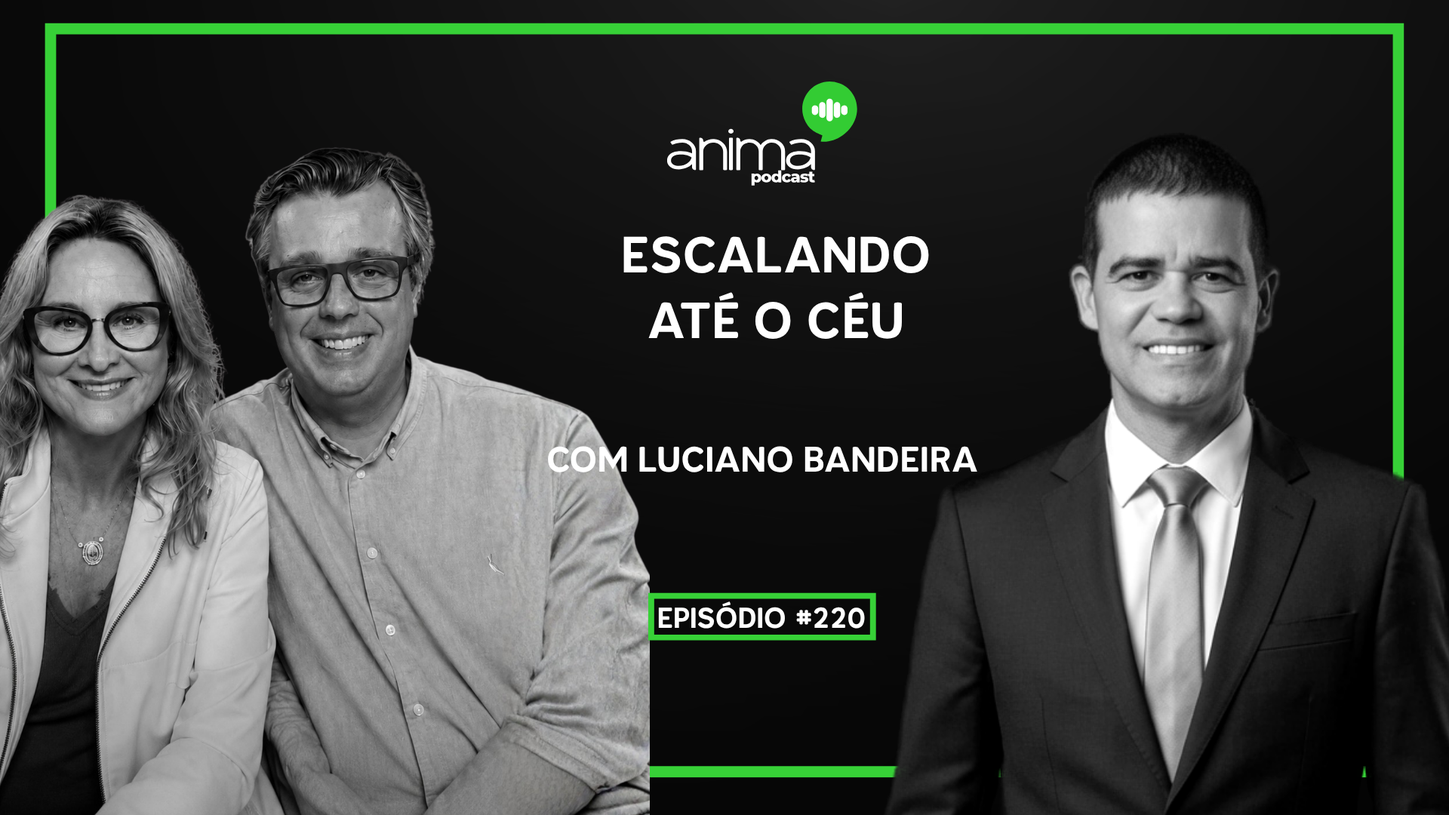
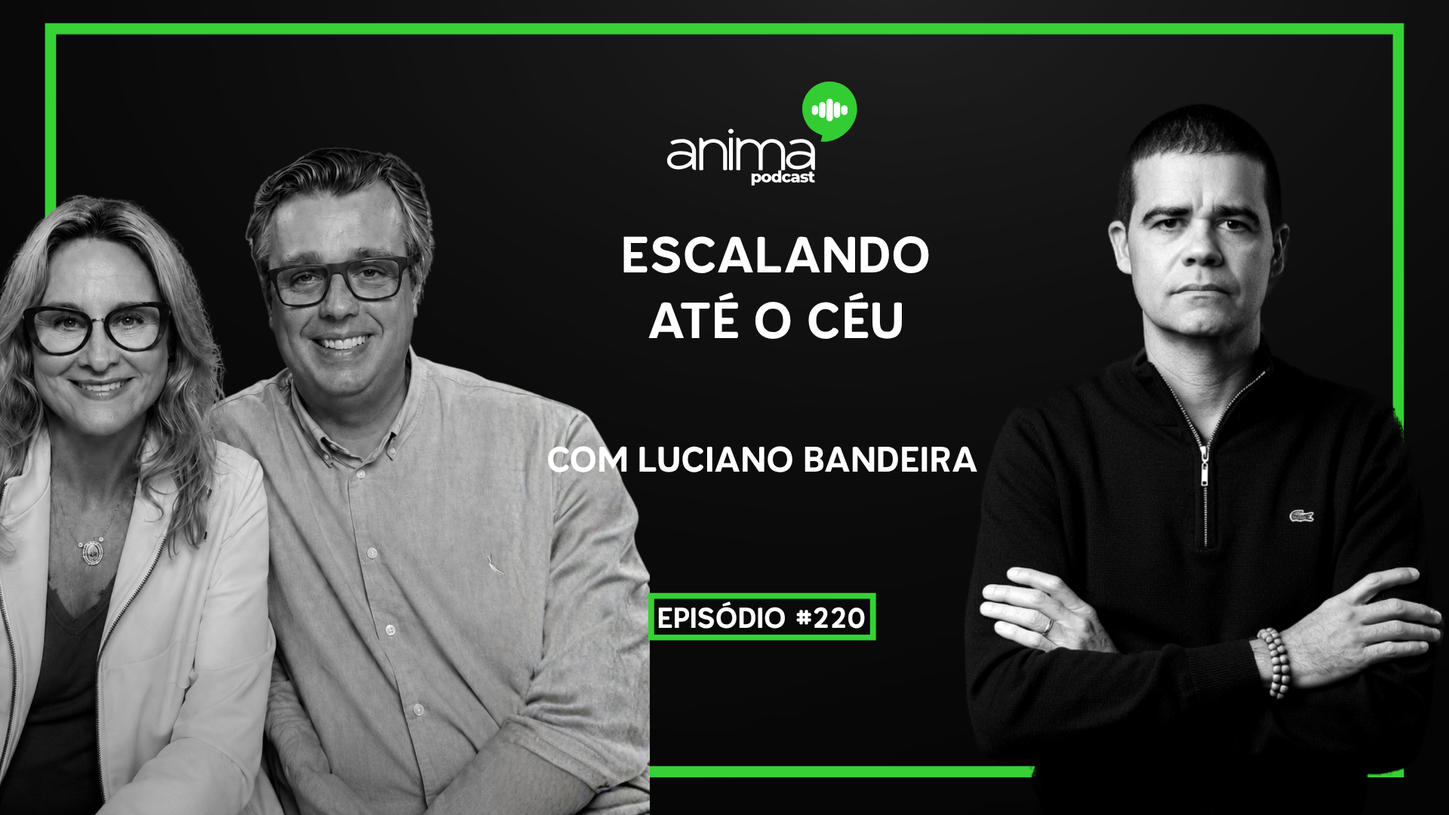
Casal trocado no acervo completo (295 episodios) + galeria

Changed region(s): [[0.5938, 0.1528, 1.0, 1.0], [0.9375, 0.9472, 0.9688, 0.9778]]

diff --git a/review/casal-lote/index.html b/review/casal-lote/index.html
@@ -1,71 +1,312 @@
-<title>Anima - Casal novo (lote Template 2)</title>
+<title>Anima Podcast — Casal novo (acervo completo)</title>
 <style>
 :root{--bg:#0c0e0d;--card:#161a18;--cb:#232a26;--ink:#f3f6f4;--muted:#9aa49e;--acc:#37d137}
 body{margin:0;background:var(--bg);color:var(--ink);font-family:"Segoe UI",system-ui,Arial,sans-serif}
-header{padding:26px 24px;border-bottom:1px solid var(--cb)}
+header{padding:26px 24px;border-bottom:1px solid var(--cb);position:sticky;top:0;background:var(--bg);z-index:2}
 header h1{margin:0 0 6px;font-size:22px}
-header p{margin:0;color:var(--muted);font-size:14px;max-width:80ch}
-main{display:grid;gap:18px;grid-template-columns:repeat(auto-fill,minmax(340px,1fr));padding:24px}
+header p{margin:0;color:var(--muted);font-size:14px;max-width:90ch}
+header b{color:var(--acc)}
+main{display:grid;gap:14px;grid-template-columns:repeat(auto-fill,minmax(300px,1fr));padding:22px}
 figure{margin:0;background:var(--card);border:1px solid var(--cb);border-radius:12px;overflow:hidden}
 figure img{width:100%;display:block;aspect-ratio:16/9;object-fit:cover;background:#000}
-figcaption{padding:10px 12px;font-size:13px;line-height:1.5}
-.t{color:var(--ink);font-weight:600}.g{color:var(--muted);font-size:12px}
-.b{display:inline-block;font-size:10.5px;padding:1px 7px;border-radius:999px;vertical-align:middle;margin-left:4px}
-.b-ok{background:rgba(55,209,55,.15);color:#5ee65e;border:1px solid rgba(55,209,55,.35)}
-.b-skip{background:#20262300;color:var(--muted);border:1px solid var(--cb)}
-.b-info{background:rgba(0,166,230,.12);color:#4bb8ee;border:1px solid rgba(0,166,230,.3)}
+figcaption{padding:8px 12px;font-size:13px;font-weight:600;color:var(--ink)}
 </style>
-<header><h1>Casal novo - lote "Template 2" (25 episodios)</h1>
-<p>Copia de trabalho <b>DAHT4wC4lb4</b> (o design original DAHRFk8zA-8 foi preservado como backup). 23 episodios com o casal de apresentadores: casal NA FRENTE da tarja verde (sangrando a esquerda) e ATRAS do texto (titulo, subtitulo e numero do episodio sempre legiveis). #279 ja tinha a foto unica; #260 (Diogo e Vanessa) sao os proprios apresentadores. Confira e aprove.</p></header>
+<header><h1>Casal de apresentadores trocado — acervo completo</h1>
+<p><b>295 episódios</b> com o novo casal de apresentadores (na frente da tarja verde, atrás do texto). Cobre praticamente todo o catálogo do Anima Podcast. Os designs originais no Canva foram todos preservados; as edições foram feitas em cópias. A sub-marca "Anima Saúde" não tem o casal e ficou de fora. Ordenado do episódio mais recente ao mais antigo.</p></header>
 <main>
-<figure><img loading="lazy" src="e279.png?v=4" alt="#279">
-<figcaption><b>#279</b> <span class="b b-info">ja era single (#279)</span><br><span class="t">Os bastidores do filme de Guido Schaffer</span><br><span class="g">com Jayme Monjardim e Suzana Castelo</span></figcaption></figure>
-<figure><img loading="lazy" src="e268.png?v=4" alt="#268">
-<figcaption><b>#268</b> <span class="b b-ok">casal adicionado</span><br><span class="t">Anima e Santo Flow juntos pela 1a vez</span><br><span class="g">com Guto Azevedo e Zulene Parente</span></figcaption></figure>
-<figure><img loading="lazy" src="e260.png?v=4" alt="#260">
-<figcaption><b>#260</b> <span class="b b-skip">sem casal</span><br><span class="t">O que esperar de 2026</span><br><span class="g">com Diogo e Vanessa</span></figcaption></figure>
-<figure><img loading="lazy" src="e234.png?v=4" alt="#234">
-<figcaption><b>#234</b> <span class="b b-ok">casal adicionado</span><br><span class="t">Nao pecar contra a castidade</span><br><span class="g">com Jose Roberto e Maria Carolina</span></figcaption></figure>
-<figure><img loading="lazy" src="e233.png?v=4" alt="#233">
-<figcaption><b>#233</b> <span class="b b-ok">casal trocado</span><br><span class="t">Quando o casamento comeca a morrer</span><br><span class="g">com Yasmin Fleming</span></figcaption></figure>
-<figure><img loading="lazy" src="e232.png?v=4" alt="#232">
-<figcaption><b>#232</b> <span class="b b-ok">casal trocado</span><br><span class="t">A boa musica e remedio para a alma</span><br><span class="g">com Alex Cohen</span></figcaption></figure>
-<figure><img loading="lazy" src="e231.png?v=4" alt="#231">
-<figcaption><b>#231</b> <span class="b b-ok">casal trocado</span><br><span class="t">O quadro que adoecia as pessoas</span><br><span class="g">com Paulo Frade</span></figcaption></figure>
-<figure><img loading="lazy" src="e230.png?v=4" alt="#230">
-<figcaption><b>#230</b> <span class="b b-ok">casal trocado</span><br><span class="t">Se eu estivesse no Ira, estaria morta</span><br><span class="g">com Mahsima Nadim</span></figcaption></figure>
-<figure><img loading="lazy" src="e229.png?v=4" alt="#229">
-<figcaption><b>#229</b> <span class="b b-ok">casal trocado</span><br><span class="t">A verdade sobre o Sudario</span><br><span class="g">com Vera Tostes</span></figcaption></figure>
-<figure><img loading="lazy" src="e228.png?v=4" alt="#228">
-<figcaption><b>#228</b> <span class="b b-ok">casal trocado</span><br><span class="t">Eu estava nas garras de Satanas</span><br><span class="g">com Tony Allysson</span></figcaption></figure>
-<figure><img loading="lazy" src="e227.png?v=4" alt="#227">
-<figcaption><b>#227</b> <span class="b b-ok">casal trocado</span><br><span class="t">Cai protestante, levantei catolico</span><br><span class="g">com Frei Angelo Faitanin</span></figcaption></figure>
-<figure><img loading="lazy" src="e226.png?v=4" alt="#226">
-<figcaption><b>#226</b> <span class="b b-ok">casal trocado</span><br><span class="t">Fui ateu e comunista</span><br><span class="g">com Gabriel Kanner</span></figcaption></figure>
-<figure><img loading="lazy" src="e225.png?v=4" alt="#225">
-<figcaption><b>#225</b> <span class="b b-ok">casal trocado</span><br><span class="t">Nao entre no digital sem isso</span><br><span class="g">com Italo Marsili</span></figcaption></figure>
-<figure><img loading="lazy" src="e224.png?v=4" alt="#224">
-<figcaption><b>#224</b> <span class="b b-ok">casal trocado</span><br><span class="t">Seu casamento pode ser nulo?</span><br><span class="g">com Pe. Alex Nogueira</span></figcaption></figure>
-<figure><img loading="lazy" src="e223.png?v=4" alt="#223">
-<figcaption><b>#223</b> <span class="b b-ok">casal trocado</span><br><span class="t">Va mais rapido para o Ceu</span><br><span class="g">com Pe. Renato Teixeira</span></figcaption></figure>
-<figure><img loading="lazy" src="e222.png?v=4" alt="#222">
-<figcaption><b>#222</b> <span class="b b-ok">casal trocado</span><br><span class="t">O Rock e satanico?</span><br><span class="g">com Danilo Lopes</span></figcaption></figure>
-<figure><img loading="lazy" src="e220.png?v=4" alt="#220">
-<figcaption><b>#220</b> <span class="b b-ok">casal trocado</span><br><span class="t">Escalando ate o Ceu</span><br><span class="g">com Luciano Bandeira</span></figcaption></figure>
-<figure><img loading="lazy" src="e219.png?v=4" alt="#219">
-<figcaption><b>#219</b> <span class="b b-ok">casal trocado</span><br><span class="t">A arma contra a gula</span><br><span class="g">com Isa Latuf</span></figcaption></figure>
-<figure><img loading="lazy" src="e218.png?v=4" alt="#218">
-<figcaption><b>#218</b> <span class="b b-ok">casal trocado</span><br><span class="t">Como superar a dor e o sofrimento</span><br><span class="g">com Luis Enrique Carmelo</span></figcaption></figure>
-<figure><img loading="lazy" src="e217.png?v=4" alt="#217">
-<figcaption><b>#217</b> <span class="b b-ok">casal trocado</span><br><span class="t">A Santa Carona</span><br><span class="g">com Guilherme Cadoiss</span></figcaption></figure>
-<figure><img loading="lazy" src="e216.png?v=4" alt="#216">
-<figcaption><b>#216</b> <span class="b b-ok">casal trocado</span><br><span class="t">Encontrei Deus no fundo do poco</span><br><span class="g">com Alam Carrion</span></figcaption></figure>
-<figure><img loading="lazy" src="e214.png?v=4" alt="#214">
-<figcaption><b>#214</b> <span class="b b-ok">casal trocado</span><br><span class="t">Os 4 desejos ocultos das mulheres</span><br><span class="g">com Mari Vabo</span></figcaption></figure>
-<figure><img loading="lazy" src="e213.png?v=4" alt="#213">
-<figcaption><b>#213</b> <span class="b b-ok">casal trocado</span><br><span class="t">Padre Paulo Ricardo e herege?</span><br><span class="g">com Pedro Affonseca</span></figcaption></figure>
-<figure><img loading="lazy" src="e211.png?v=4" alt="#211">
-<figcaption><b>#211</b> <span class="b b-ok">casal trocado</span><br><span class="t">A verdade sombria sobre o funk</span><br><span class="g">com Alvaro Siviero</span></figcaption></figure>
-<figure><img loading="lazy" src="e210.png?v=4" alt="#210">
-<figcaption><b>#210</b> <span class="b b-ok">casal trocado</span><br><span class="t">Musica catolica furando a bolha</span><br><span class="g">com Herrison Pontes e Jessica Dias</span></figcaption></figure>
+<figure><img loading="lazy" src="e307.png?v=5" alt="#307"><figcaption>#307</figcaption></figure>
+<figure><img loading="lazy" src="e306.png?v=5" alt="#306"><figcaption>#306</figcaption></figure>
+<figure><img loading="lazy" src="e305.png?v=5" alt="#305"><figcaption>#305</figcaption></figure>
+<figure><img loading="lazy" src="e304.png?v=5" alt="#304"><figcaption>#304</figcaption></figure>
+<figure><img loading="lazy" src="e303.png?v=5" alt="#303"><figcaption>#303</figcaption></figure>
+<figure><img loading="lazy" src="e302.png?v=5" alt="#302"><figcaption>#302</figcaption></figure>
+<figure><img loading="lazy" src="e301.png?v=5" alt="#301"><figcaption>#301</figcaption></figure>
+<figure><img loading="lazy" src="e300.png?v=5" alt="#300"><figcaption>#300</figcaption></figure>
+<figure><img loading="lazy" src="e299.png?v=5" alt="#299"><figcaption>#299</figcaption></figure>
+<figure><img loading="lazy" src="e298.png?v=5" alt="#298"><figcaption>#298</figcaption></figure>
+<figure><img loading="lazy" src="e297.png?v=5" alt="#297"><figcaption>#297</figcaption></figure>
+<figure><img loading="lazy" src="e296.png?v=5" alt="#296"><figcaption>#296</figcaption></figure>
+<figure><img loading="lazy" src="e295.png?v=5" alt="#295"><figcaption>#295</figcaption></figure>
+<figure><img loading="lazy" src="e294.png?v=5" alt="#294"><figcaption>#294</figcaption></figure>
+<figure><img loading="lazy" src="e293.png?v=5" alt="#293"><figcaption>#293</figcaption></figure>
+<figure><img loading="lazy" src="e292.png?v=5" alt="#292"><figcaption>#292</figcaption></figure>
+<figure><img loading="lazy" src="e290.png?v=5" alt="#290"><figcaption>#290</figcaption></figure>
+<figure><img loading="lazy" src="e289.png?v=5" alt="#289"><figcaption>#289</figcaption></figure>
+<figure><img loading="lazy" src="e288.png?v=5" alt="#288"><figcaption>#288</figcaption></figure>
+<figure><img loading="lazy" src="e287.png?v=5" alt="#287"><figcaption>#287</figcaption></figure>
+<figure><img loading="lazy" src="e286.png?v=5" alt="#286"><figcaption>#286</figcaption></figure>
+<figure><img loading="lazy" src="e284.png?v=5" alt="#284"><figcaption>#284</figcaption></figure>
+<figure><img loading="lazy" src="e283.png?v=5" alt="#283"><figcaption>#283</figcaption></figure>
+<figure><img loading="lazy" src="e282.png?v=5" alt="#282"><figcaption>#282</figcaption></figure>
+<figure><img loading="lazy" src="e281.png?v=5" alt="#281"><figcaption>#281</figcaption></figure>
+<figure><img loading="lazy" src="e280.png?v=5" alt="#280"><figcaption>#280</figcaption></figure>
+<figure><img loading="lazy" src="e279.png?v=5" alt="#279"><figcaption>#279</figcaption></figure>
+<figure><img loading="lazy" src="e277.png?v=5" alt="#277"><figcaption>#277</figcaption></figure>
+<figure><img loading="lazy" src="e275.png?v=5" alt="#275"><figcaption>#275</figcaption></figure>
+<figure><img loading="lazy" src="e274.png?v=5" alt="#274"><figcaption>#274</figcaption></figure>
+<figure><img loading="lazy" src="e273.png?v=5" alt="#273"><figcaption>#273</figcaption></figure>
+<figure><img loading="lazy" src="e272.png?v=5" alt="#272"><figcaption>#272</figcaption></figure>
+<figure><img loading="lazy" src="e271.png?v=5" alt="#271"><figcaption>#271</figcaption></figure>
+<figure><img loading="lazy" src="e270.png?v=5" alt="#270"><figcaption>#270</figcaption></figure>
+<figure><img loading="lazy" src="e269.png?v=5" alt="#269"><figcaption>#269</figcaption></figure>
+<figure><img loading="lazy" src="e268.png?v=5" alt="#268"><figcaption>#268</figcaption></figure>
+<figure><img loading="lazy" src="e267.png?v=5" alt="#267"><figcaption>#267</figcaption></figure>
+<figure><img loading="lazy" src="e266.png?v=5" alt="#266"><figcaption>#266</figcaption></figure>
+<figure><img loading="lazy" src="e265.png?v=5" alt="#265"><figcaption>#265</figcaption></figure>
+<figure><img loading="lazy" src="e264.png?v=5" alt="#264"><figcaption>#264</figcaption></figure>
+<figure><img loading="lazy" src="e263.png?v=5" alt="#263"><figcaption>#263</figcaption></figure>
+<figure><img loading="lazy" src="e262.png?v=5" alt="#262"><figcaption>#262</figcaption></figure>
+<figure><img loading="lazy" src="e261.png?v=5" alt="#261"><figcaption>#261</figcaption></figure>
+<figure><img loading="lazy" src="e260.png?v=5" alt="#260"><figcaption>#260</figcaption></figure>
+<figure><img loading="lazy" src="e259.png?v=5" alt="#259"><figcaption>#259</figcaption></figure>
+<figure><img loading="lazy" src="e258.png?v=5" alt="#258"><figcaption>#258</figcaption></figure>
+<figure><img loading="lazy" src="e257.png?v=5" alt="#257"><figcaption>#257</figcaption></figure>
+<figure><img loading="lazy" src="e256.png?v=5" alt="#256"><figcaption>#256</figcaption></figure>
+<figure><img loading="lazy" src="e255.png?v=5" alt="#255"><figcaption>#255</figcaption></figure>
+<figure><img loading="lazy" src="e254.png?v=5" alt="#254"><figcaption>#254</figcaption></figure>
+<figure><img loading="lazy" src="e253.png?v=5" alt="#253"><figcaption>#253</figcaption></figure>
+<figure><img loading="lazy" src="e252.png?v=5" alt="#252"><figcaption>#252</figcaption></figure>
+<figure><img loading="lazy" src="e251.png?v=5" alt="#251"><figcaption>#251</figcaption></figure>
+<figure><img loading="lazy" src="e250.png?v=5" alt="#250"><figcaption>#250</figcaption></figure>
+<figure><img loading="lazy" src="e249.png?v=5" alt="#249"><figcaption>#249</figcaption></figure>
+<figure><img loading="lazy" src="e248.png?v=5" alt="#248"><figcaption>#248</figcaption></figure>
+<figure><img loading="lazy" src="e247.png?v=5" alt="#247"><figcaption>#247</figcaption></figure>
+<figure><img loading="lazy" src="e246.png?v=5" alt="#246"><figcaption>#246</figcaption></figure>
+<figure><img loading="lazy" src="e245.png?v=5" alt="#245"><figcaption>#245</figcaption></figure>
+<figure><img loading="lazy" src="e244.png?v=5" alt="#244"><figcaption>#244</figcaption></figure>
+<figure><img loading="lazy" src="e243.png?v=5" alt="#243"><figcaption>#243</figcaption></figure>
+<figure><img loading="lazy" src="e242.png?v=5" alt="#242"><figcaption>#242</figcaption></figure>
+<figure><img loading="lazy" src="e241.png?v=5" alt="#241"><figcaption>#241</figcaption></figure>
+<figure><img loading="lazy" src="e240.png?v=5" alt="#240"><figcaption>#240</figcaption></figure>
+<figure><img loading="lazy" src="e239.png?v=5" alt="#239"><figcaption>#239</figcaption></figure>
+<figure><img loading="lazy" src="e238.png?v=5" alt="#238"><figcaption>#238</figcaption></figure>
+<figure><img loading="lazy" src="e237.png?v=5" alt="#237"><figcaption>#237</figcaption></figure>
+<figure><img loading="lazy" src="e236.png?v=5" alt="#236"><figcaption>#236</figcaption></figure>
+<figure><img loading="lazy" src="e235.png?v=5" alt="#235"><figcaption>#235</figcaption></figure>
+<figure><img loading="lazy" src="e234.png?v=5" alt="#234"><figcaption>#234</figcaption></figure>
+<figure><img loading="lazy" src="e233.png?v=5" alt="#233"><figcaption>#233</figcaption></figure>
+<figure><img loading="lazy" src="e232.png?v=5" alt="#232"><figcaption>#232</figcaption></figure>
+<figure><img loading="lazy" src="e231.png?v=5" alt="#231"><figcaption>#231</figcaption></figure>
+<figure><img loading="lazy" src="e230.png?v=5" alt="#230"><figcaption>#230</figcaption></figure>
+<figure><img loading="lazy" src="e229.png?v=5" alt="#229"><figcaption>#229</figcaption></figure>
+<figure><img loading="lazy" src="e228.png?v=5" alt="#228"><figcaption>#228</figcaption></figure>
+<figure><img loading="lazy" src="e227.png?v=5" alt="#227"><figcaption>#227</figcaption></figure>
+<figure><img loading="lazy" src="e226.png?v=5" alt="#226"><figcaption>#226</figcaption></figure>
+<figure><img loading="lazy" src="e225.png?v=5" alt="#225"><figcaption>#225</figcaption></figure>
+<figure><img loading="lazy" src="e224.png?v=5" alt="#224"><figcaption>#224</figcaption></figure>
+<figure><img loading="lazy" src="e223.png?v=5" alt="#223"><figcaption>#223</figcaption></figure>
+<figure><img loading="lazy" src="e222.png?v=5" alt="#222"><figcaption>#222</figcaption></figure>
+<figure><img loading="lazy" src="e221.png?v=5" alt="#221"><figcaption>#221</figcaption></figure>
+<figure><img loading="lazy" src="e220.png?v=5" alt="#220"><figcaption>#220</figcaption></figure>
+<figure><img loading="lazy" src="e219.png?v=5" alt="#219"><figcaption>#219</figcaption></figure>
+<figure><img loading="lazy" src="e218.png?v=5" alt="#218"><figcaption>#218</figcaption></figure>
+<figure><img loading="lazy" src="e217.png?v=5" alt="#217"><figcaption>#217</figcaption></figure>
+<figure><img loading="lazy" src="e216.png?v=5" alt="#216"><figcaption>#216</figcaption></figure>
+<figure><img loading="lazy" src="e215.png?v=5" alt="#215"><figcaption>#215</figcaption></figure>
+<figure><img loading="lazy" src="e214.png?v=5" alt="#214"><figcaption>#214</figcaption></figure>
+<figure><img loading="lazy" src="e213.png?v=5" alt="#213"><figcaption>#213</figcaption></figure>
+<figure><img loading="lazy" src="e212.png?v=5" alt="#212"><figcaption>#212</figcaption></figure>
+<figure><img loading="lazy" src="e211.png?v=5" alt="#211"><figcaption>#211</figcaption></figure>
+<figure><img loading="lazy" src="e210.png?v=5" alt="#210"><figcaption>#210</figcaption></figure>
+<figure><img loading="lazy" src="e209.png?v=5" alt="#209"><figcaption>#209</figcaption></figure>
+<figure><img loading="lazy" src="e208.png?v=5" alt="#208"><figcaption>#208</figcaption></figure>
+<figure><img loading="lazy" src="e207.png?v=5" alt="#207"><figcaption>#207</figcaption></figure>
+<figure><img loading="lazy" src="e206.png?v=5" alt="#206"><figcaption>#206</figcaption></figure>
+<figure><img loading="lazy" src="e205.png?v=5" alt="#205"><figcaption>#205</figcaption></figure>
+<figure><img loading="lazy" src="e203.png?v=5" alt="#203"><figcaption>#203</figcaption></figure>
+<figure><img loading="lazy" src="e202.png?v=5" alt="#202"><figcaption>#202</figcaption></figure>
+<figure><img loading="lazy" src="e201.png?v=5" alt="#201"><figcaption>#201</figcaption></figure>
+<figure><img loading="lazy" src="e200.png?v=5" alt="#200"><figcaption>#200</figcaption></figure>
+<figure><img loading="lazy" src="e199.png?v=5" alt="#199"><figcaption>#199</figcaption></figure>
+<figure><img loading="lazy" src="e198.png?v=5" alt="#198"><figcaption>#198</figcaption></figure>
+<figure><img loading="lazy" src="e197.png?v=5" alt="#197"><figcaption>#197</figcaption></figure>
+<figure><img loading="lazy" src="e196.png?v=5" alt="#196"><figcaption>#196</figcaption></figure>
+<figure><img loading="lazy" src="e195.png?v=5" alt="#195"><figcaption>#195</figcaption></figure>
+<figure><img loading="lazy" src="e194.png?v=5" alt="#194"><figcaption>#194</figcaption></figure>
+<figure><img loading="lazy" src="e193.png?v=5" alt="#193"><figcaption>#193</figcaption></figure>
+<figure><img loading="lazy" src="e192.png?v=5" alt="#192"><figcaption>#192</figcaption></figure>
+<figure><img loading="lazy" src="e191.png?v=5" alt="#191"><figcaption>#191</figcaption></figure>
+<figure><img loading="lazy" src="e190.png?v=5" alt="#190"><figcaption>#190</figcaption></figure>
+<figure><img loading="lazy" src="e189.png?v=5" alt="#189"><figcaption>#189</figcaption></figure>
+<figure><img loading="lazy" src="e187.png?v=5" alt="#187"><figcaption>#187</figcaption></figure>
+<figure><img loading="lazy" src="e186.png?v=5" alt="#186"><figcaption>#186</figcaption></figure>
+<figure><img loading="lazy" src="e185.png?v=5" alt="#185"><figcaption>#185</figcaption></figure>
+<figure><img loading="lazy" src="e184.png?v=5" alt="#184"><figcaption>#184</figcaption></figure>
+<figure><img loading="lazy" src="e183.png?v=5" alt="#183"><figcaption>#183</figcaption></figure>
+<figure><img loading="lazy" src="e181.png?v=5" alt="#181"><figcaption>#181</figcaption></figure>
+<figure><img loading="lazy" src="e180.png?v=5" alt="#180"><figcaption>#180</figcaption></figure>
+<figure><img loading="lazy" src="e179.png?v=5" alt="#179"><figcaption>#179</figcaption></figure>
+<figure><img loading="lazy" src="e178.png?v=5" alt="#178"><figcaption>#178</figcaption></figure>
+<figure><img loading="lazy" src="e177.png?v=5" alt="#177"><figcaption>#177</figcaption></figure>
+<figure><img loading="lazy" src="e176.png?v=5" alt="#176"><figcaption>#176</figcaption></figure>
+<figure><img loading="lazy" src="e175.png?v=5" alt="#175"><figcaption>#175</figcaption></figure>
+<figure><img loading="lazy" src="e173.png?v=5" alt="#173"><figcaption>#173</figcaption></figure>
+<figure><img loading="lazy" src="e172.png?v=5" alt="#172"><figcaption>#172</figcaption></figure>
+<figure><img loading="lazy" src="e171.png?v=5" alt="#171"><figcaption>#171</figcaption></figure>
+<figure><img loading="lazy" src="e170.png?v=5" alt="#170"><figcaption>#170</figcaption></figure>
+<figure><img loading="lazy" src="e169.png?v=5" alt="#169"><figcaption>#169</figcaption></figure>
+<figure><img loading="lazy" src="e168.png?v=5" alt="#168"><figcaption>#168</figcaption></figure>
+<figure><img loading="lazy" src="e167.png?v=5" alt="#167"><figcaption>#167</figcaption></figure>
+<figure><img loading="lazy" src="e166.png?v=5" alt="#166"><figcaption>#166</figcaption></figure>
+<figure><img loading="lazy" src="e165.png?v=5" alt="#165"><figcaption>#165</figcaption></figure>
+<figure><img loading="lazy" src="e164.png?v=5" alt="#164"><figcaption>#164</figcaption></figure>
+<figure><img loading="lazy" src="e163.png?v=5" alt="#163"><figcaption>#163</figcaption></figure>
+<figure><img loading="lazy" src="e162.png?v=5" alt="#162"><figcaption>#162</figcaption></figure>
+<figure><img loading="lazy" src="e161.png?v=5" alt="#161"><figcaption>#161</figcaption></figure>
+<figure><img loading="lazy" src="e160.png?v=5" alt="#160"><figcaption>#160</figcaption></figure>
+<figure><img loading="lazy" src="e159.png?v=5" alt="#159"><figcaption>#159</figcaption></figure>
+<figure><img loading="lazy" src="e158.png?v=5" alt="#158"><figcaption>#158</figcaption></figure>
+<figure><img loading="lazy" src="e157.png?v=5" alt="#157"><figcaption>#157</figcaption></figure>
+<figure><img loading="lazy" src="e156.png?v=5" alt="#156"><figcaption>#156</figcaption></figure>
+<figure><img loading="lazy" src="e155.png?v=5" alt="#155"><figcaption>#155</figcaption></figure>
+<figure><img loading="lazy" src="e154.png?v=5" alt="#154"><figcaption>#154</figcaption></figure>
+<figure><img loading="lazy" src="e153.png?v=5" alt="#153"><figcaption>#153</figcaption></figure>
+<figure><img loading="lazy" src="e152.png?v=5" alt="#152"><figcaption>#152</figcaption></figure>
+<figure><img loading="lazy" src="e151.png?v=5" alt="#151"><figcaption>#151</figcaption></figure>
+<figure><img loading="lazy" src="e150.png?v=5" alt="#150"><figcaption>#150</figcaption></figure>
+<figure><img loading="lazy" src="e149.png?v=5" alt="#149"><figcaption>#149</figcaption></figure>
+<figure><img loading="lazy" src="e148.png?v=5" alt="#148"><figcaption>#148</figcaption></figure>
+<figure><img loading="lazy" src="e147.png?v=5" alt="#147"><figcaption>#147</figcaption></figure>
+<figure><img loading="lazy" src="e146.png?v=5" alt="#146"><figcaption>#146</figcaption></figure>
+<figure><img loading="lazy" src="e145.png?v=5" alt="#145"><figcaption>#145</figcaption></figure>
+<figure><img loading="lazy" src="e144.png?v=5" alt="#144"><figcaption>#144</figcaption></figure>
+<figure><img loading="lazy" src="e143.png?v=5" alt="#143"><figcaption>#143</figcaption></figure>
+<figure><img loading="lazy" src="e142.png?v=5" alt="#142"><figcaption>#142</figcaption></figure>
+<figure><img loading="lazy" src="e141.png?v=5" alt="#141"><figcaption>#141</figcaption></figure>
+<figure><img loading="lazy" src="e140.png?v=5" alt="#140"><figcaption>#140</figcaption></figure>
+<figure><img loading="lazy" src="e139.png?v=5" alt="#139"><figcaption>#139</figcaption></figure>
+<figure><img loading="lazy" src="e138.png?v=5" alt="#138"><figcaption>#138</figcaption></figure>
+<figure><img loading="lazy" src="e137.png?v=5" alt="#137"><figcaption>#137</figcaption></figure>
+<figure><img loading="lazy" src="e136.png?v=5" alt="#136"><figcaption>#136</figcaption></figure>
+<figure><img loading="lazy" src="e135.png?v=5" alt="#135"><figcaption>#135</figcaption></figure>
+<figure><img loading="lazy" src="e134.png?v=5" alt="#134"><figcaption>#134</figcaption></figure>
+<figure><img loading="lazy" src="e133.png?v=5" alt="#133"><figcaption>#133</figcaption></figure>
+<figure><img loading="lazy" src="e132.png?v=5" alt="#132"><figcaption>#132</figcaption></figure>
+<figure><img loading="lazy" src="e131.png?v=5" alt="#131"><figcaption>#131</figcaption></figure>
+<figure><img loading="lazy" src="e130.png?v=5" alt="#130"><figcaption>#130</figcaption></figure>
+<figure><img loading="lazy" src="e129.png?v=5" alt="#129"><figcaption>#129</figcaption></figure>
+<figure><img loading="lazy" src="e128.png?v=5" alt="#128"><figcaption>#128</figcaption></figure>
+<figure><img loading="lazy" src="e127.png?v=5" alt="#127"><figcaption>#127</figcaption></figure>
+<figure><img loading="lazy" src="e126.png?v=5" alt="#126"><figcaption>#126</figcaption></figure>
+<figure><img loading="lazy" src="e125.png?v=5" alt="#125"><figcaption>#125</figcaption></figure>
+<figure><img loading="lazy" src="e124.png?v=5" alt="#124"><figcaption>#124</figcaption></figure>
+<figure><img loading="lazy" src="e122.png?v=5" alt="#122"><figcaption>#122</figcaption></figure>
+<figure><img loading="lazy" src="e120.png?v=5" alt="#120"><figcaption>#120</figcaption></figure>
+<figure><img loading="lazy" src="e119.png?v=5" alt="#119"><figcaption>#119</figcaption></figure>
+<figure><img loading="lazy" src="e118.png?v=5" alt="#118"><figcaption>#118</figcaption></figure>
+<figure><img loading="lazy" src="e117.png?v=5" alt="#117"><figcaption>#117</figcaption></figure>
+<figure><img loading="lazy" src="e116.png?v=5" alt="#116"><figcaption>#116</figcaption></figure>
+<figure><img loading="lazy" src="e115.png?v=5" alt="#115"><figcaption>#115</figcaption></figure>
+<figure><img loading="lazy" src="e114.png?v=5" alt="#114"><figcaption>#114</figcaption></figure>
+<figure><img loading="lazy" src="e113.png?v=5" alt="#113"><figcaption>#113</figcaption></figure>
+<figure><img loading="lazy" src="e112.png?v=5" alt="#112"><figcaption>#112</figcaption></figure>
+<figure><img loading="lazy" src="e111.png?v=5" alt="#111"><figcaption>#111</figcaption></figure>
+<figure><img loading="lazy" src="e110.png?v=5" alt="#110"><figcaption>#110</figcaption></figure>
+<figure><img loading="lazy" src="e109.png?v=5" alt="#109"><figcaption>#109</figcaption></figure>
+<figure><img loading="lazy" src="e108.png?v=5" alt="#108"><figcaption>#108</figcaption></figure>
+<figure><img loading="lazy" src="e107.png?v=5" alt="#107"><figcaption>#107</figcaption></figure>
+<figure><img loading="lazy" src="e106.png?v=5" alt="#106"><figcaption>#106</figcaption></figure>
+<figure><img loading="lazy" src="e105.png?v=5" alt="#105"><figcaption>#105</figcaption></figure>
+<figure><img loading="lazy" src="e104.png?v=5" alt="#104"><figcaption>#104</figcaption></figure>
+<figure><img loading="lazy" src="e103.png?v=5" alt="#103"><figcaption>#103</figcaption></figure>
+<figure><img loading="lazy" src="e102.png?v=5" alt="#102"><figcaption>#102</figcaption></figure>
+<figure><img loading="lazy" src="e101.png?v=5" alt="#101"><figcaption>#101</figcaption></figure>
+<figure><img loading="lazy" src="e100.png?v=5" alt="#100"><figcaption>#100</figcaption></figure>
+<figure><img loading="lazy" src="e99.png?v=5" alt="#99"><figcaption>#99</figcaption></figure>
+<figure><img loading="lazy" src="e98.png?v=5" alt="#98"><figcaption>#98</figcaption></figure>
+<figure><img loading="lazy" src="e97.png?v=5" alt="#97"><figcaption>#97</figcaption></figure>
+<figure><img loading="lazy" src="e96.png?v=5" alt="#96"><figcaption>#96</figcaption></figure>
+<figure><img loading="lazy" src="e95.png?v=5" alt="#95"><figcaption>#95</figcaption></figure>
+<figure><img loading="lazy" src="e94.png?v=5" alt="#94"><figcaption>#94</figcaption></figure>
+<figure><img loading="lazy" src="e93.png?v=5" alt="#93"><figcaption>#93</figcaption></figure>
+<figure><img loading="lazy" src="e92.png?v=5" alt="#92"><figcaption>#92</figcaption></figure>
+<figure><img loading="lazy" src="e91.png?v=5" alt="#91"><figcaption>#91</figcaption></figure>
+<figure><img loading="lazy" src="e90.png?v=5" alt="#90"><figcaption>#90</figcaption></figure>
+<figure><img loading="lazy" src="e89.png?v=5" alt="#89"><figcaption>#89</figcaption></figure>
+<figure><img loading="lazy" src="e88.png?v=5" alt="#88"><figcaption>#88</figcaption></figure>
+<figure><img loading="lazy" src="e87.png?v=5" alt="#87"><figcaption>#87</figcaption></figure>
+<figure><img loading="lazy" src="e86.png?v=5" alt="#86"><figcaption>#86</figcaption></figure>
+<figure><img loading="lazy" src="e85.png?v=5" alt="#85"><figcaption>#85</figcaption></figure>
+<figure><img loading="lazy" src="e84.png?v=5" alt="#84"><figcaption>#84</figcaption></figure>
+<figure><img loading="lazy" src="e83.png?v=5" alt="#83"><figcaption>#83</figcaption></figure>
+<figure><img loading="lazy" src="e82.png?v=5" alt="#82"><figcaption>#82</figcaption></figure>
+<figure><img loading="lazy" src="e81.png?v=5" alt="#81"><figcaption>#81</figcaption></figure>
+<figure><img loading="lazy" src="e80.png?v=5" alt="#80"><figcaption>#80</figcaption></figure>
+<figure><img loading="lazy" src="e79.png?v=5" alt="#79"><figcaption>#79</figcaption></figure>
+<figure><img loading="lazy" src="e78.png?v=5" alt="#78"><figcaption>#78</figcaption></figure>
+<figure><img loading="lazy" src="e77.png?v=5" alt="#77"><figcaption>#77</figcaption></figure>
+<figure><img loading="lazy" src="e76.png?v=5" alt="#76"><figcaption>#76</figcaption></figure>
+<figure><img loading="lazy" src="e75.png?v=5" alt="#75"><figcaption>#75</figcaption></figure>
+<figure><img loading="lazy" src="e74.png?v=5" alt="#74"><figcaption>#74</figcaption></figure>
+<figure><img loading="lazy" src="e73.png?v=5" alt="#73"><figcaption>#73</figcaption></figure>
+<figure><img loading="lazy" src="e72.png?v=5" alt="#72"><figcaption>#72</figcaption></figure>
+<figure><img loading="lazy" src="e71.png?v=5" alt="#71"><figcaption>#71</figcaption></figure>
+<figure><img loading="lazy" src="e70.png?v=5" alt="#70"><figcaption>#70</figcaption></figure>
+<figure><img loading="lazy" src="e69.png?v=5" alt="#69"><figcaption>#69</figcaption></figure>
+<figure><img loading="lazy" src="e68.png?v=5" alt="#68"><figcaption>#68</figcaption></figure>
+<figure><img loading="lazy" src="e67.png?v=5" alt="#67"><figcaption>#67</figcaption></figure>
+<figure><img loading="lazy" src="e66.png?v=5" alt="#66"><figcaption>#66</figcaption></figure>
+<figure><img loading="lazy" src="e65.png?v=5" alt="#65"><figcaption>#65</figcaption></figure>
+<figure><img loading="lazy" src="e63.png?v=5" alt="#63"><figcaption>#63</figcaption></figure>
+<figure><img loading="lazy" src="e62.png?v=5" alt="#62"><figcaption>#62</figcaption></figure>
+<figure><img loading="lazy" src="e61.png?v=5" alt="#61"><figcaption>#61</figcaption></figure>
+<figure><img loading="lazy" src="e60.png?v=5" alt="#60"><figcaption>#60</figcaption></figure>
+<figure><img loading="lazy" src="e59.png?v=5" alt="#59"><figcaption>#59</figcaption></figure>
+<figure><img loading="lazy" src="e58.png?v=5" alt="#58"><figcaption>#58</figcaption></figure>
+<figure><img loading="lazy" src="e57.png?v=5" alt="#57"><figcaption>#57</figcaption></figure>
+<figure><img loading="lazy" src="e56.png?v=5" alt="#56"><figcaption>#56</figcaption></figure>
+<figure><img loading="lazy" src="e55.png?v=5" alt="#55"><figcaption>#55</figcaption></figure>
+<figure><img loading="lazy" src="e54.png?v=5" alt="#54"><figcaption>#54</figcaption></figure>
+<figure><img loading="lazy" src="e53.png?v=5" alt="#53"><figcaption>#53</figcaption></figure>
+<figure><img loading="lazy" src="e52.png?v=5" alt="#52"><figcaption>#52</figcaption></figure>
+<figure><img loading="lazy" src="e50.png?v=5" alt="#50"><figcaption>#50</figcaption></figure>
+<figure><img loading="lazy" src="e49.png?v=5" alt="#49"><figcaption>#49</figcaption></figure>
+<figure><img loading="lazy" src="e48.png?v=5" alt="#48"><figcaption>#48</figcaption></figure>
+<figure><img loading="lazy" src="e47.png?v=5" alt="#47"><figcaption>#47</figcaption></figure>
+<figure><img loading="lazy" src="e46.png?v=5" alt="#46"><figcaption>#46</figcaption></figure>
+<figure><img loading="lazy" src="e45.png?v=5" alt="#45"><figcaption>#45</figcaption></figure>
+<figure><img loading="lazy" src="e44.png?v=5" alt="#44"><figcaption>#44</figcaption></figure>
+<figure><img loading="lazy" src="e43.png?v=5" alt="#43"><figcaption>#43</figcaption></figure>
+<figure><img loading="lazy" src="e42.png?v=5" alt="#42"><figcaption>#42</figcaption></figure>
+<figure><img loading="lazy" src="e41.png?v=5" alt="#41"><figcaption>#41</figcaption></figure>
+<figure><img loading="lazy" src="e40.png?v=5" alt="#40"><figcaption>#40</figcaption></figure>
+<figure><img loading="lazy" src="e39.png?v=5" alt="#39"><figcaption>#39</figcaption></figure>
+<figure><img loading="lazy" src="e38.png?v=5" alt="#38"><figcaption>#38</figcaption></figure>
+<figure><img loading="lazy" src="e37.png?v=5" alt="#37"><figcaption>#37</figcaption></figure>
+<figure><img loading="lazy" src="e36.png?v=5" alt="#36"><figcaption>#36</figcaption></figure>
+<figure><img loading="lazy" src="e35.png?v=5" alt="#35"><figcaption>#35</figcaption></figure>
+<figure><img loading="lazy" src="e34.png?v=5" alt="#34"><figcaption>#34</figcaption></figure>
+<figure><img loading="lazy" src="e33.png?v=5" alt="#33"><figcaption>#33</figcaption></figure>
+<figure><img loading="lazy" src="e32.png?v=5" alt="#32"><figcaption>#32</figcaption></figure>
+<figure><img loading="lazy" src="e31.png?v=5" alt="#31"><figcaption>#31</figcaption></figure>
+<figure><img loading="lazy" src="e30.png?v=5" alt="#30"><figcaption>#30</figcaption></figure>
+<figure><img loading="lazy" src="e29.png?v=5" alt="#29"><figcaption>#29</figcaption></figure>
+<figure><img loading="lazy" src="e28.png?v=5" alt="#28"><figcaption>#28</figcaption></figure>
+<figure><img loading="lazy" src="e27.png?v=5" alt="#27"><figcaption>#27</figcaption></figure>
+<figure><img loading="lazy" src="e26.png?v=5" alt="#26"><figcaption>#26</figcaption></figure>
+<figure><img loading="lazy" src="e25.png?v=5" alt="#25"><figcaption>#25</figcaption></figure>
+<figure><img loading="lazy" src="e24.png?v=5" alt="#24"><figcaption>#24</figcaption></figure>
+<figure><img loading="lazy" src="e23.png?v=5" alt="#23"><figcaption>#23</figcaption></figure>
+<figure><img loading="lazy" src="e22.png?v=5" alt="#22"><figcaption>#22</figcaption></figure>
+<figure><img loading="lazy" src="e21.png?v=5" alt="#21"><figcaption>#21</figcaption></figure>
+<figure><img loading="lazy" src="e20.png?v=5" alt="#20"><figcaption>#20</figcaption></figure>
+<figure><img loading="lazy" src="e19.png?v=5" alt="#19"><figcaption>#19</figcaption></figure>
+<figure><img loading="lazy" src="e18.png?v=5" alt="#18"><figcaption>#18</figcaption></figure>
+<figure><img loading="lazy" src="e17.png?v=5" alt="#17"><figcaption>#17</figcaption></figure>
+<figure><img loading="lazy" src="e16.png?v=5" alt="#16"><figcaption>#16</figcaption></figure>
+<figure><img loading="lazy" src="e15.png?v=5" alt="#15"><figcaption>#15</figcaption></figure>
+<figure><img loading="lazy" src="e14.png?v=5" alt="#14"><figcaption>#14</figcaption></figure>
+<figure><img loading="lazy" src="e13.png?v=5" alt="#13"><figcaption>#13</figcaption></figure>
+<figure><img loading="lazy" src="e12.png?v=5" alt="#12"><figcaption>#12</figcaption></figure>
+<figure><img loading="lazy" src="e11.png?v=5" alt="#11"><figcaption>#11</figcaption></figure>
+<figure><img loading="lazy" src="e10.png?v=5" alt="#10"><figcaption>#10</figcaption></figure>
+<figure><img loading="lazy" src="e9.png?v=5" alt="#9"><figcaption>#9</figcaption></figure>
+<figure><img loading="lazy" src="e8.png?v=5" alt="#8"><figcaption>#8</figcaption></figure>
+<figure><img loading="lazy" src="e7.png?v=5" alt="#7"><figcaption>#7</figcaption></figure>
+<figure><img loading="lazy" src="e6.png?v=5" alt="#6"><figcaption>#6</figcaption></figure>
+<figure><img loading="lazy" src="e5.png?v=5" alt="#5"><figcaption>#5</figcaption></figure>
+<figure><img loading="lazy" src="e4.png?v=5" alt="#4"><figcaption>#4</figcaption></figure>
+<figure><img loading="lazy" src="e3.png?v=5" alt="#3"><figcaption>#3</figcaption></figure>
+<figure><img loading="lazy" src="e2.png?v=5" alt="#2"><figcaption>#2</figcaption></figure>
+<figure><img loading="lazy" src="e1.png?v=5" alt="#1"><figcaption>#1</figcaption></figure>
 </main>
